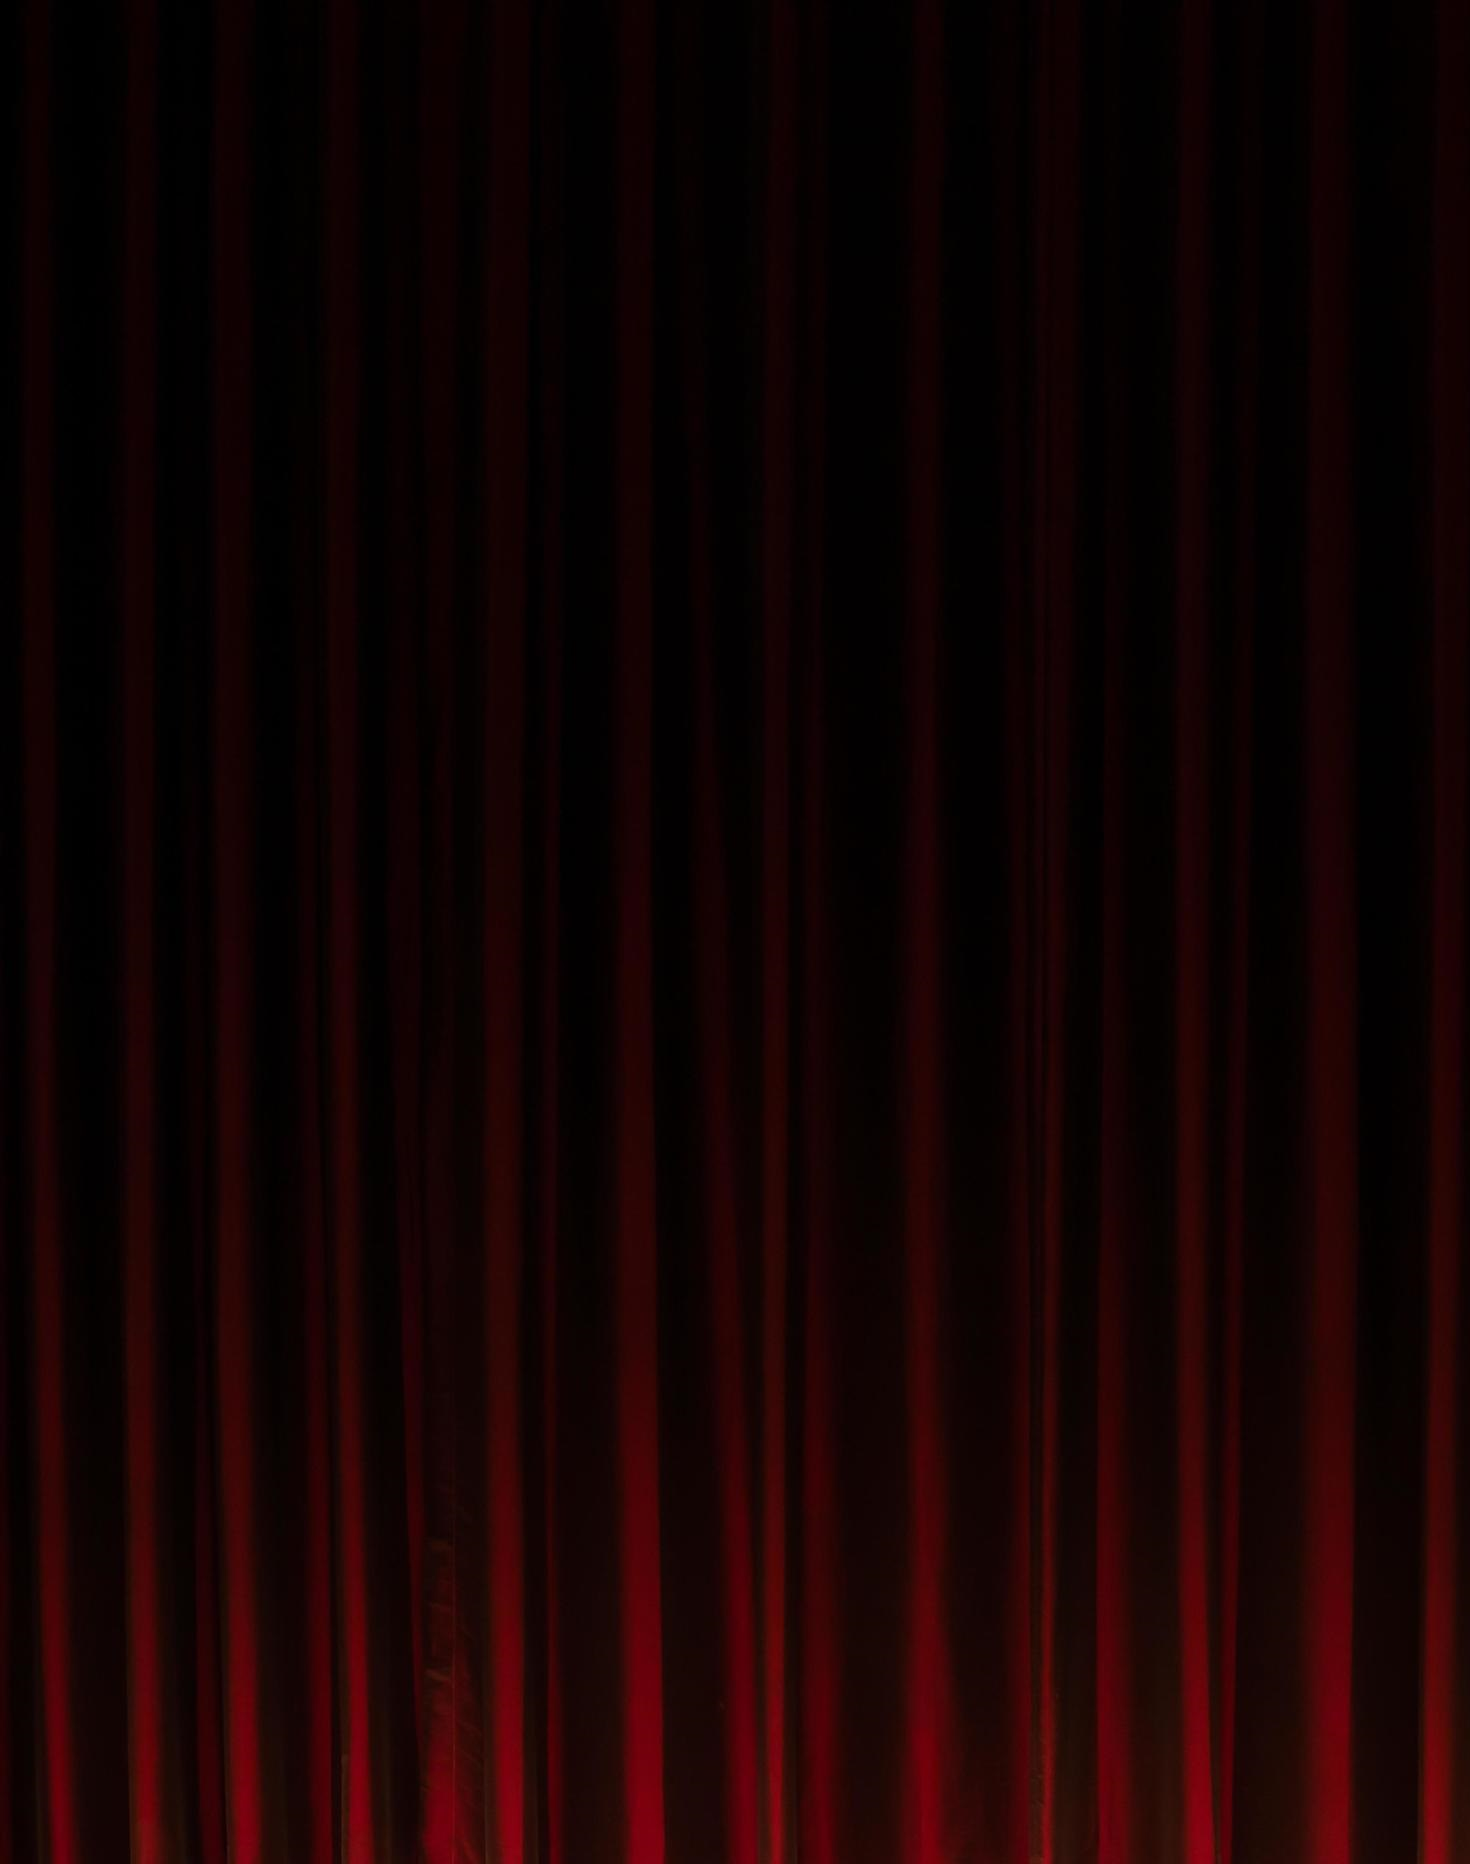
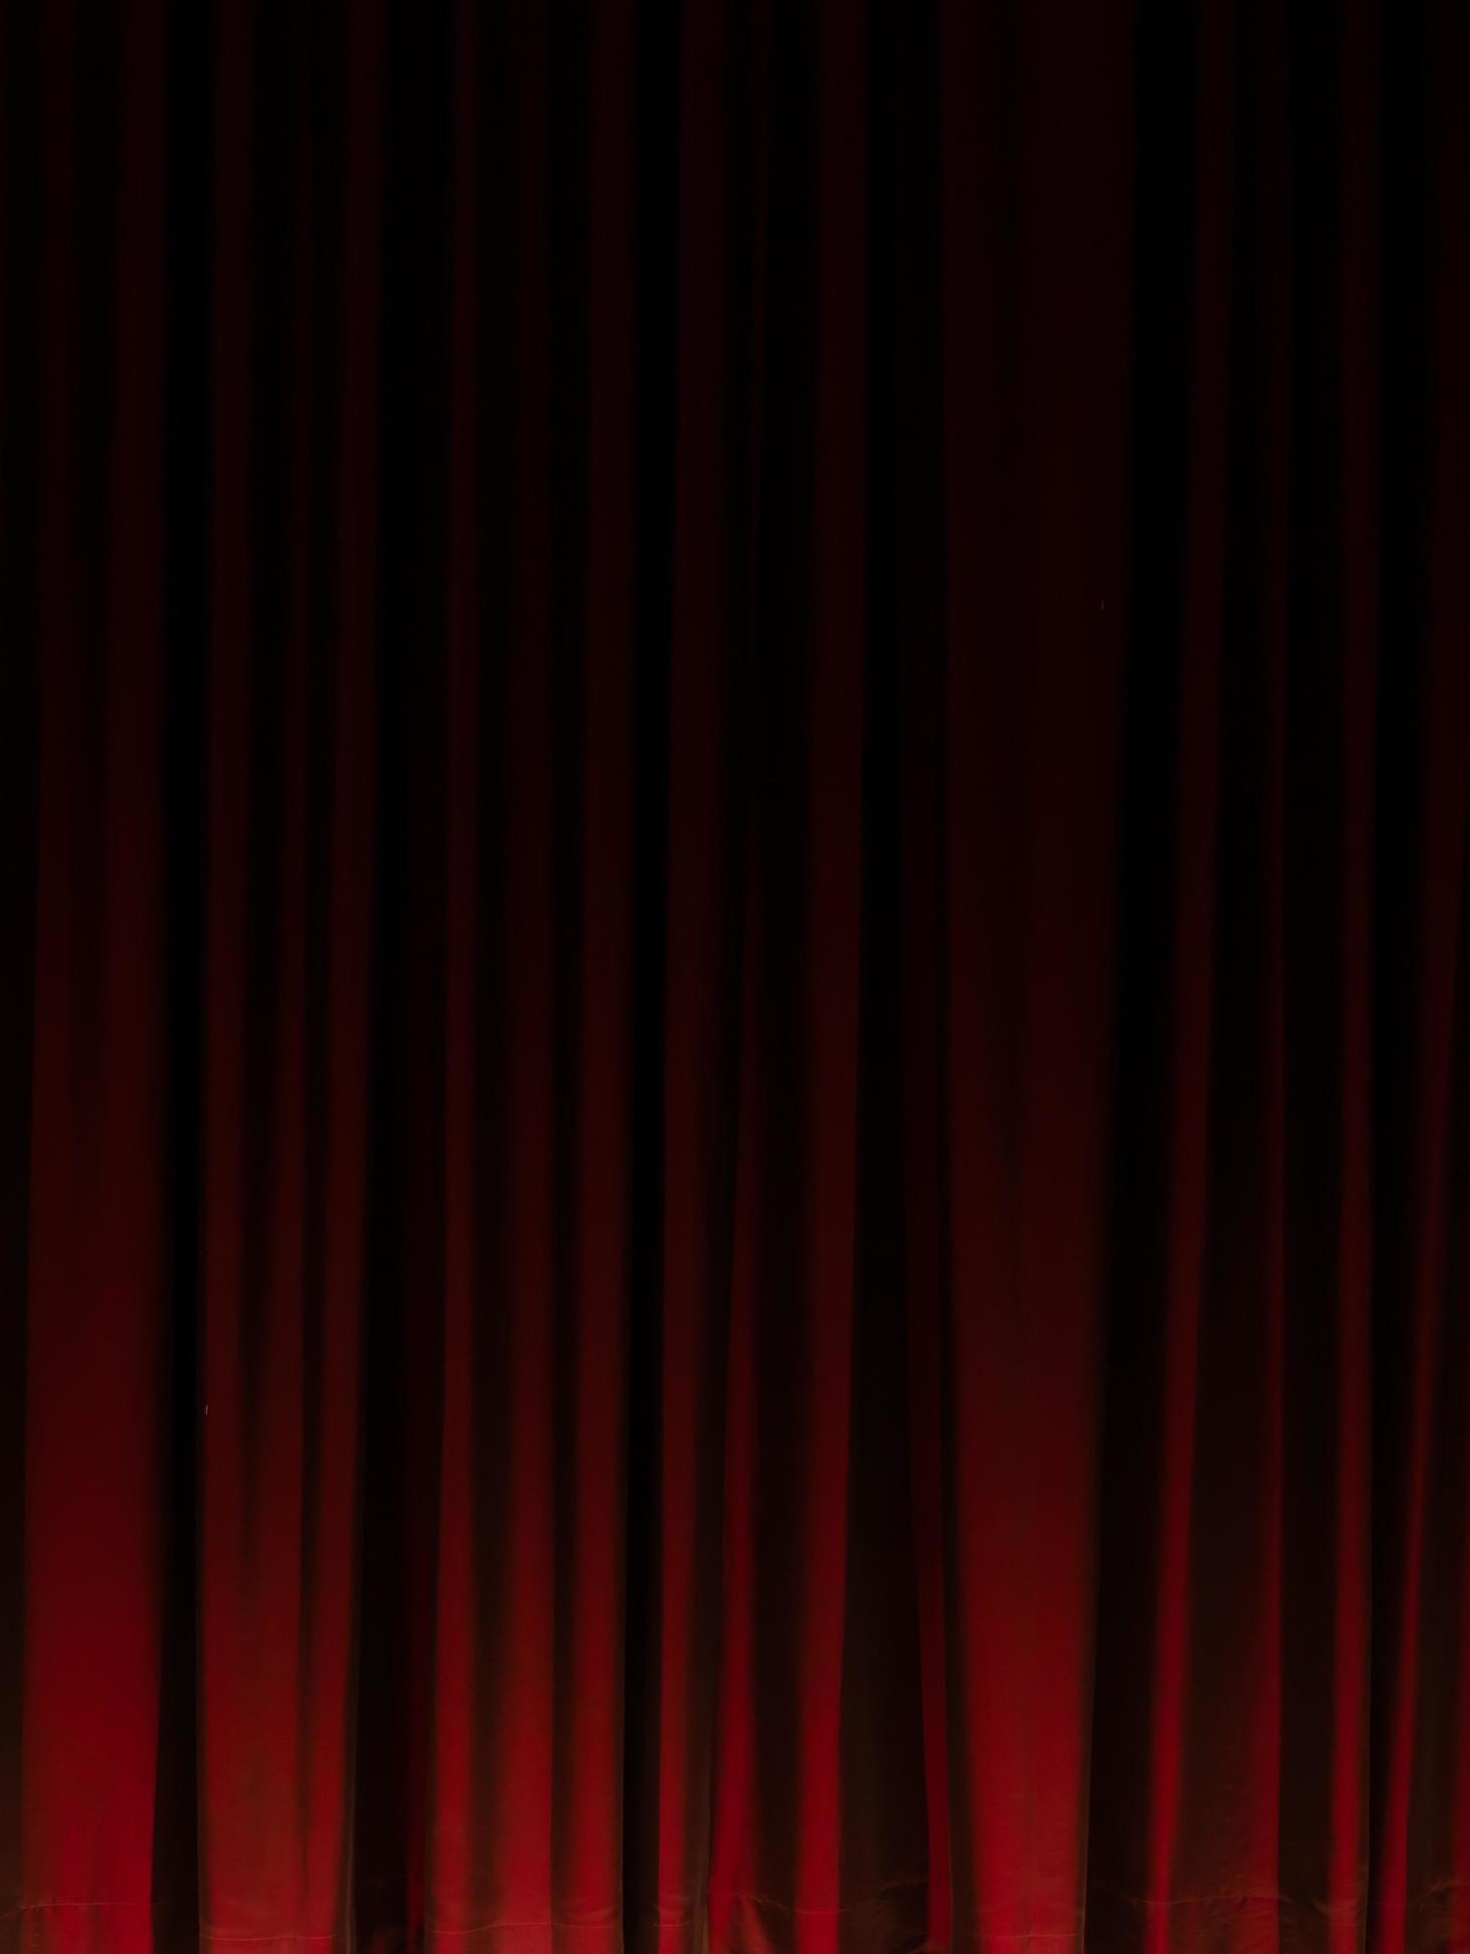
HTML Renovado

Changed region(s): [[0.0, 0.4356, 0.5816, 1.0], [0.6122, 0.4356, 1.0, 1.0]]

diff --git a/pagina galletas/index.html b/pagina galletas/index.html
@@ -4,14 +4,28 @@
 <head>
     <meta charset="UTF-8">
     <meta name="viewport" content="width=device-width, initial-scale=1.0">
-    <title>Fortune Cokies</title>
+    <title>Fortune Cookies</title>
     <link rel="stylesheet" href="estilos.css">
 </head>
-
 <body>
-    <div id="mydiv"></div>
+    <header id="title">
+        <h1 class="wellcome">Wellcome to My Fortune Coockie.</h1>
+    </header>
 
+    <div>
+        <img src="./imgs/Cortinas1.jpg" alt="" id="cortina1">
+        <img src="./imgs/Cortinas2.jpg" alt="" id="cortina2">
+    </div>
+
+    <div id="mydiv"></div>
     <input type="submit" value="Generar Galleta." id="random" class="boton">
+
+    <footer id="endtitle">
+        <p class="copy">
+            Creadores: Carlos Cardozoy Jose Vasquez. <br>
+            Copyrigth 2023.
+        </p>
+    </footer>
 
     <script src="scripts.js"></script>
 </body>
